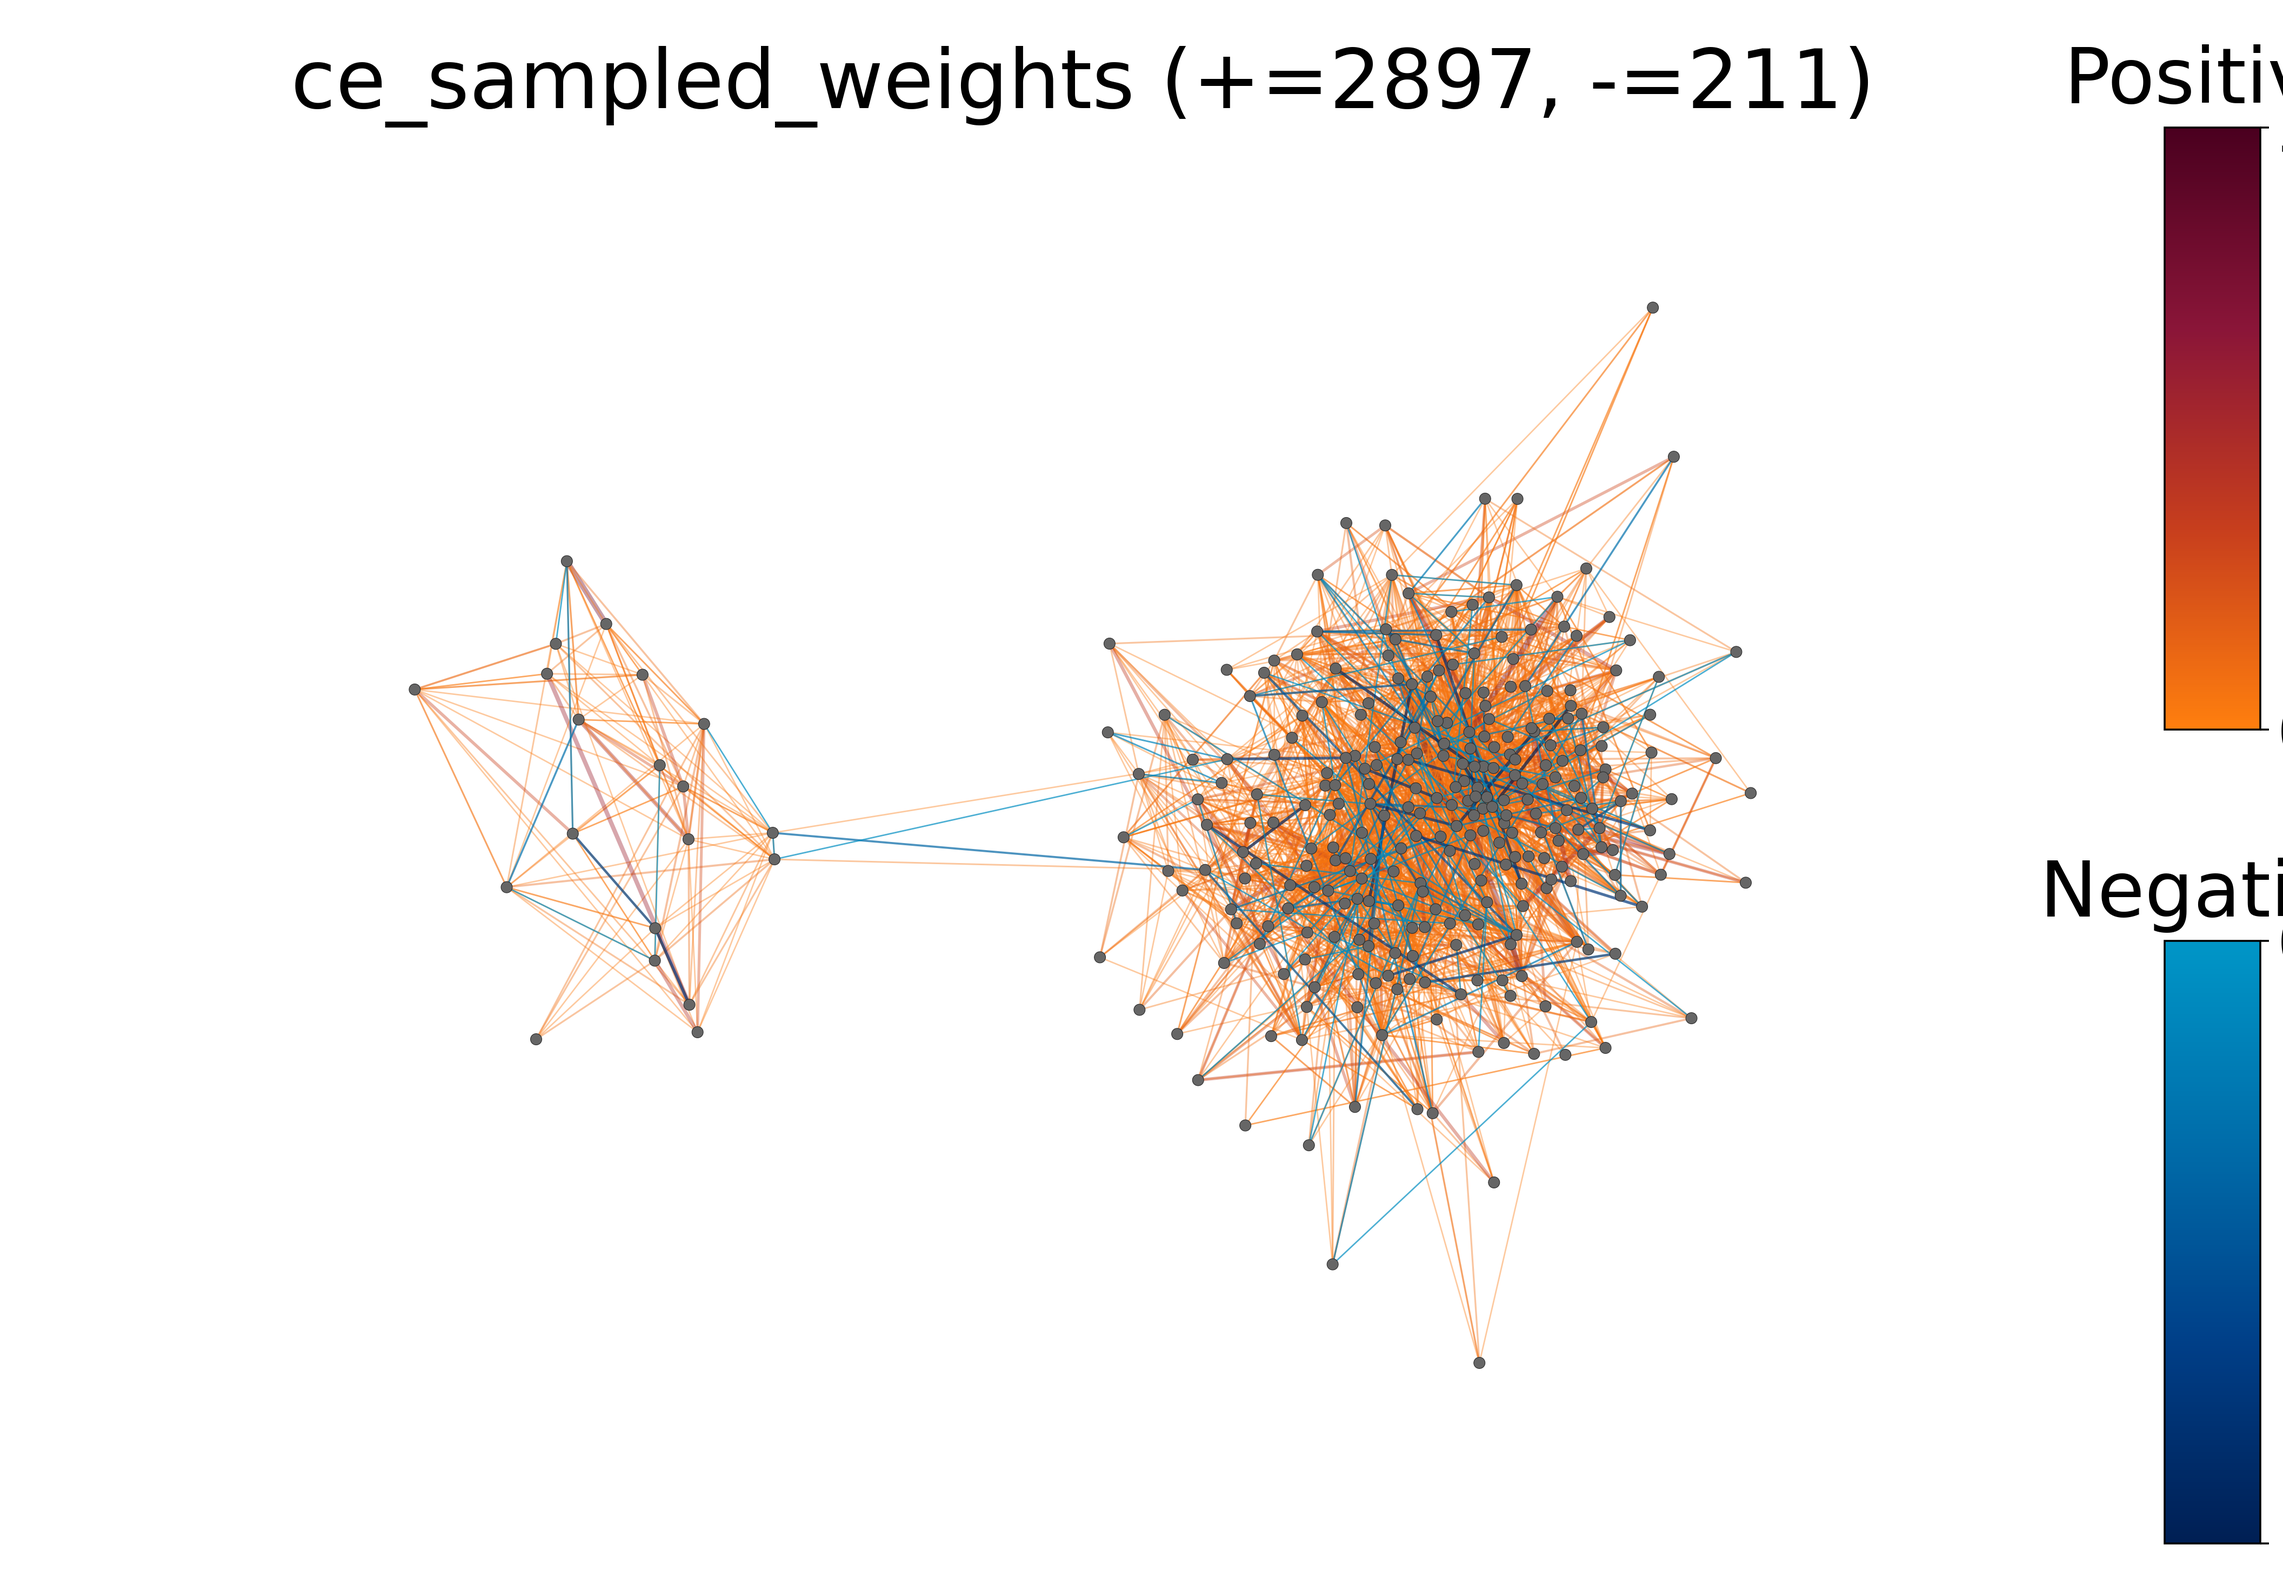
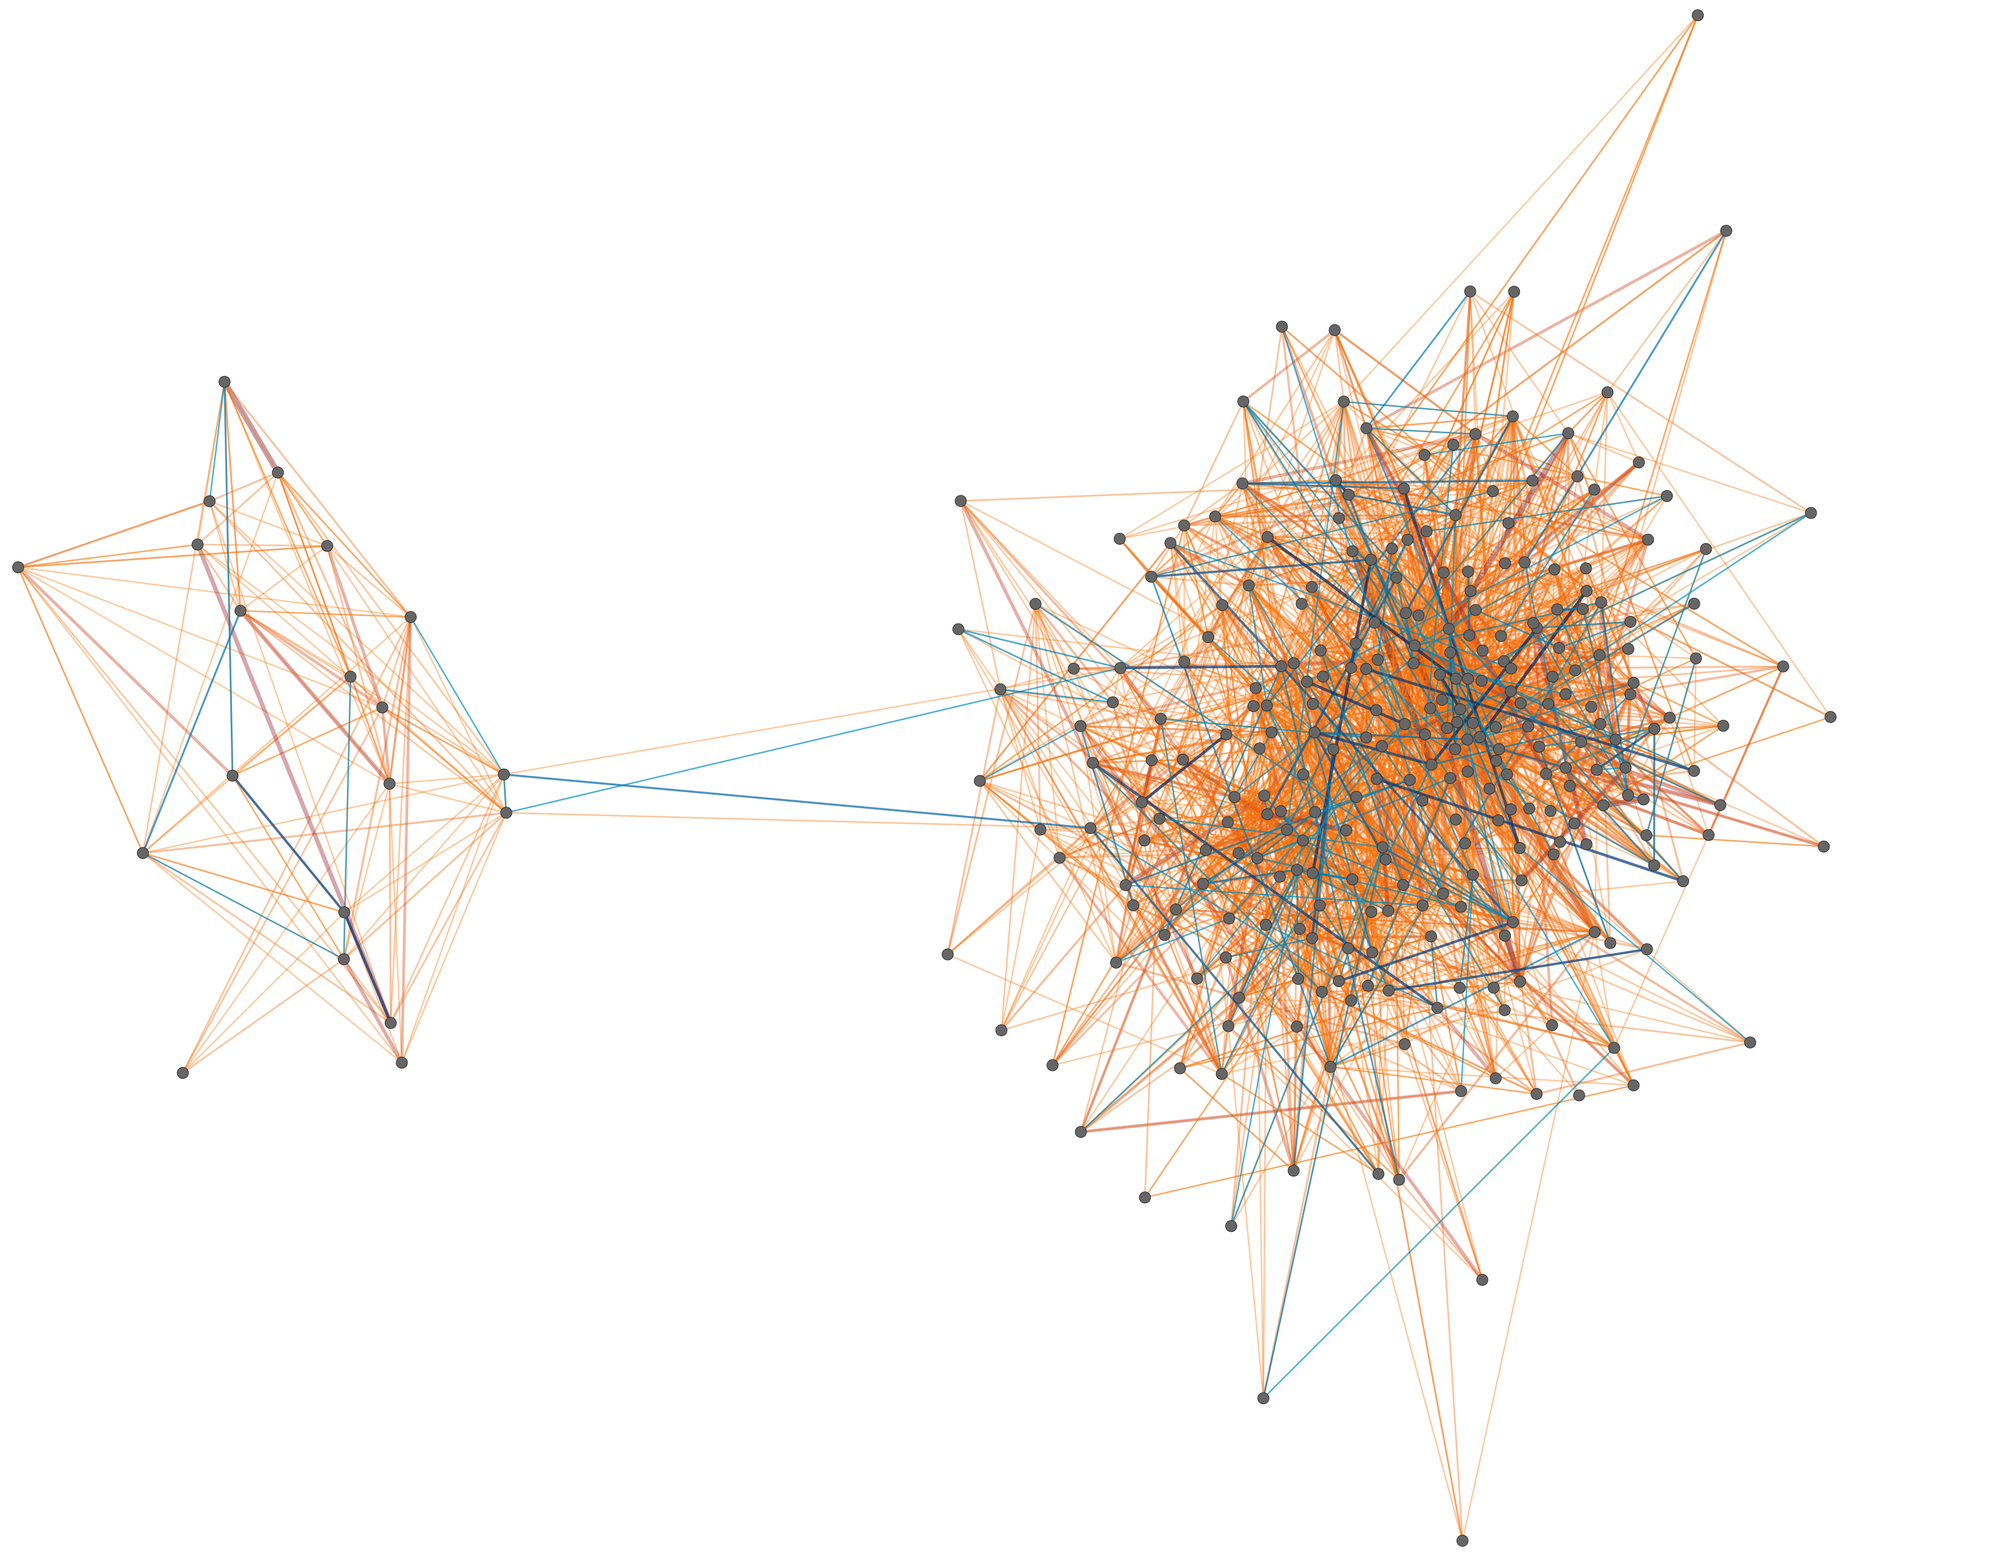
loc

diff --git a/architecture_variant_figures/make_weighted_graph_examples.py b/architecture_variant_figures/make_weighted_graph_examples.py
@@ -109,6 +109,20 @@ def _build_variants() -> list[Variant]:
 
 VARIANTS: list[Variant] = _build_variants()
 
+# Variants that alter the graph's connectivity (edge locations), not just edge weights.
+CONNECTIVITY_ALTERING_KEYS: frozenset[str] = frozenset(
+    {
+        "er_randN",
+        "ws_p01_randN",
+        "conn_shuf",
+        "conn_shuf_only",
+    }
+)
+
+
+def variant_alters_connectivity(key: str) -> bool:
+    return key in CONNECTIVITY_ALTERING_KEYS
+
 
 def parse_args() -> argparse.Namespace:
     p = argparse.ArgumentParser(description="Generate CE-reference vs variant weighted graph figures.")
@@ -128,7 +142,7 @@ def parse_args() -> argparse.Namespace:
     p.add_argument(
         "--layout-scale",
         type=float,
-        default=1.35,
+        default=1.5,
         help="Multiply node coordinates by this factor to spread nodes out.",
     )
     p.add_argument("--show-node-labels", action="store_true", help="Draw neuron-name labels on nodes.")
@@ -339,7 +353,6 @@ def draw_weighted_panel(
     for (i, j), wij in zip(edge_idx, w):
         G.add_edge(int(i), int(j), weight=float(wij))
 
-    ax.set_title(title, fontsize=panel_title_fontsize)
     ax.axis("off")
 
     nx.draw_networkx_nodes(
@@ -368,14 +381,13 @@ def draw_weighted_panel(
     if coords.size:
         xmin, ymin = coords.min(axis=0)
         xmax, ymax = coords.max(axis=0)
-        span = float(max(xmax - xmin, ymax - ymin, 1e-6))
-        xmid = float((xmin + xmax) * 0.5)
-        ymid = float((ymin + ymax) * 0.5)
-        pad = 0.07 * span
-        half = 0.5 * span + pad
-        ax.set_xlim(xmid - half, xmid + half)
-        ax.set_ylim(ymid - half, ymid + half)
-        ax.set_aspect("equal", adjustable="box")
+        xspan = float(max(xmax - xmin, 1e-6))
+        yspan = float(max(ymax - ymin, 1e-6))
+        pad_frac = 0.01
+        ax.set_xlim(float(xmin - pad_frac * xspan), float(xmax + pad_frac * xspan))
+        ax.set_ylim(float(ymin - pad_frac * yspan), float(ymax + pad_frac * yspan))
+        # Fill the panel area instead of forcing a square plotting box.
+        ax.set_aspect("auto")
 
     if w.size == 0:
         return
@@ -483,6 +495,8 @@ def make_variant_figure(
     er_p: float,
     ws_p: float,
     max_edges: int,
+    layout_iters: int,
+    layout_scale: float,
     keep_all_negatives: bool,
     show_node_labels: bool,
     label_fontsize: int,
@@ -497,6 +511,14 @@ def make_variant_figure(
 ) -> None:
     W_ref = ce_base
     W_var = construct_w_with_project_code(variant.key, ce_base, seed + 20_000, er_p=er_p, ws_p=ws_p)
+    panel_pos = ce_pos
+    if variant_alters_connectivity(variant.key):
+        panel_pos = compute_ce_kamada_layout(
+            W_var,
+            seed=seed + 40_000,
+            fallback_iters=layout_iters,
+            layout_scale=layout_scale,
+        )
 
     _, ref_w, _ = _edge_subset(W_ref, max_edges=max_edges, keep_all_negatives=keep_all_negatives)
     _var_edges, _var_w, _ = _edge_subset(W_var, max_edges=max_edges, keep_all_negatives=keep_all_negatives)
@@ -515,7 +537,7 @@ def make_variant_figure(
     draw_weighted_panel(
         ax_right,
         W_var,
-        ce_pos,
+        panel_pos,
         title=f"{variant.slug} ({stats_line(W_var)})",
         panel_title_fontsize=panel_title_fontsize,
         node_colors=["#666666"] * W_var.shape[0],
@@ -531,43 +553,15 @@ def make_variant_figure(
         neg_cmap=None if neg_map is None else neg_map["cmap"],
     )
 
-    if pos_map is not None:
-        sm_pos = plt.cm.ScalarMappable(norm=pos_map["norm"], cmap=pos_map["cmap"])
-        sm_pos.set_array([])
-        cb_pos = fig.colorbar(sm_pos, cax=cax_pos)
-        cb_pos.set_ticks(pos_map["ticks"])
-        cb_pos.ax.set_title("Positive", fontsize=cbar_title_fontsize, pad=20)
-        cb_pos.set_label("w (+)", fontsize=cbar_label_fontsize,labelpad =-2)
-        cb_pos.ax.tick_params(labelsize=cbar_tick_fontsize)
-    else:
-        cax_pos.axis("off")
 
-    if neg_map is not None:
-        sm_neg = plt.cm.ScalarMappable(norm=neg_map["norm"], cmap=neg_map["cmap"])
-        sm_neg.set_array([])
-        cb_neg = fig.colorbar(sm_neg, cax=cax_neg)
-        cb_neg.set_ticks(neg_map["ticks"])
-        cb_neg.ax.set_title("Negative", fontsize=cbar_title_fontsize, pad=20)
-        cb_neg.set_label("w (-)", fontsize=cbar_label_fontsize,labelpad = -2)
-        cb_neg.ax.tick_params(labelsize=cbar_tick_fontsize)
-    else:
-        cax_neg.axis("off")
+    cax_pos.axis("off")
 
-    style_handles = [
-        Line2D([0], [0], color="#c73e1d", lw=2.0, ls="-", label="positive edge"),
-        Line2D([0], [0], color="#006daa", lw=2.0, ls="-", label="negative edge"),
-    ]
-    fig.legend(
-        handles=style_handles,
-        loc="lower center",
-        ncol=2,
-        frameon=False,
-        bbox_to_anchor=(0.5, 0.01),
-        fontsize=legend_fontsize,
-    )
+    cax_neg.axis("off")
+
+
 
     #fig.suptitle(f"{variant.slug}: {variant.title}", fontsize=suptitle_fontsize, y=1.02)
-    fig.subplots_adjust(left=0.00, right=0.95, top=0.92, bottom=0.13, wspace=0.03)
+    fig.subplots_adjust(left=0.00, right=1.0, top=1.0, bottom=0.00, wspace=0.00)
     fig.savefig(outdir / f"{variant.slug}.png", dpi=figure_dpi)
     plt.close(fig)
 
@@ -616,6 +610,8 @@ def main() -> None:
             er_p=args.er_p,
             ws_p=args.ws_p,
             max_edges=args.max_edges,
+            layout_iters=args.layout_iters,
+            layout_scale=args.layout_scale,
             keep_all_negatives=keep_all_negatives,
             show_node_labels=args.show_node_labels,
             label_fontsize=args.label_fontsize,

diff --git a/graph_hist.py b/graph_hist.py
@@ -1485,7 +1485,8 @@ def plot_overlaid_arch_histograms(disp: pd.DataFrame, out_dir: str, bins: int):
         "local_sign+flat",
         "local_sign+sample",
         "local_sign+binary",
-        "global_sign_pres"
+        "global_sign_pres",
+        "binary+shuffle",
 
     ]
     modes = [m for m in mode_order if m in set(disp["mode"].unique())]
@@ -1503,6 +1504,7 @@ def plot_overlaid_arch_histograms(disp: pd.DataFrame, out_dir: str, bins: int):
         "local_sign+sample": "#AF7DF5",
         "local_sign+binary": "#8ADEF3",
         "global_sign_pres" : "#1C373D",
+        "binary+shuffle": "#FF00FF",
 
     }
     if not metrics:
@@ -1566,6 +1568,7 @@ def plot_overlaid_arch_histograms(disp: pd.DataFrame, out_dir: str, bins: int):
                     "local_sign+sample": "Local Sign + Sampled",
                     "local_sign+binary": "Local Sign + wt +1,-1",
                     "global_sign_pres" : "Global sign",
+                    "binary+shuffle": "Binary sign + shuffle",
 
 
 
